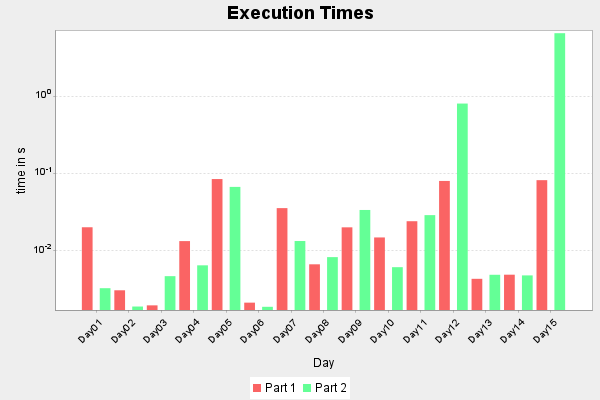
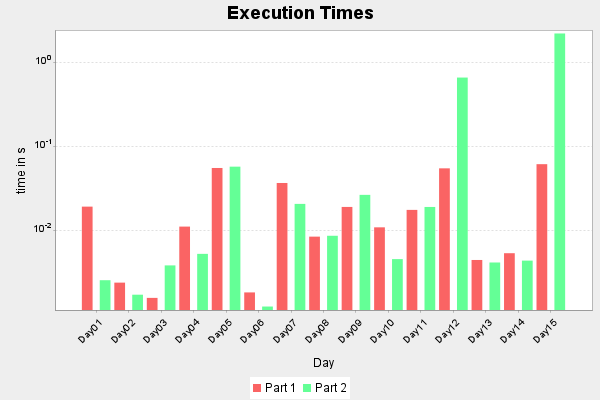
Day 15 Changed Int to Long for speedup (but why?)

diff --git a/src/Day15.kt b/src/Day15.kt
@@ -28,12 +28,12 @@ object Day15 : Day() {
         private val end = get(width - 1, height - 1)!!
 
         fun shortestPath(): List<Node> {
-            fun h(node: Node) = node.distanceToEnd()
-            fun d(node1: Node, node2: Node) = node1.value + node2.value
+            fun h(node: Node) = node.distanceToEnd().toLong()
+            fun d(node1: Node, node2: Node)= (node1.value + node2.value).toLong()
 
             val openSet = mutableSetOf(start)
             val cameFrom = mutableMapOf<Node, Node>()
-            val gScore = map.flatten().associateWith { Int.MAX_VALUE }.toMutableMap().apply { put(start, 0) }
+            val gScore = map.flatten().associateWith { Long.MAX_VALUE }.toMutableMap().apply { put(start, 0L) }
             val fScore = gScore.toMutableMap().apply { put(start, h(start)) }
 
             while (openSet.isNotEmpty()) {
